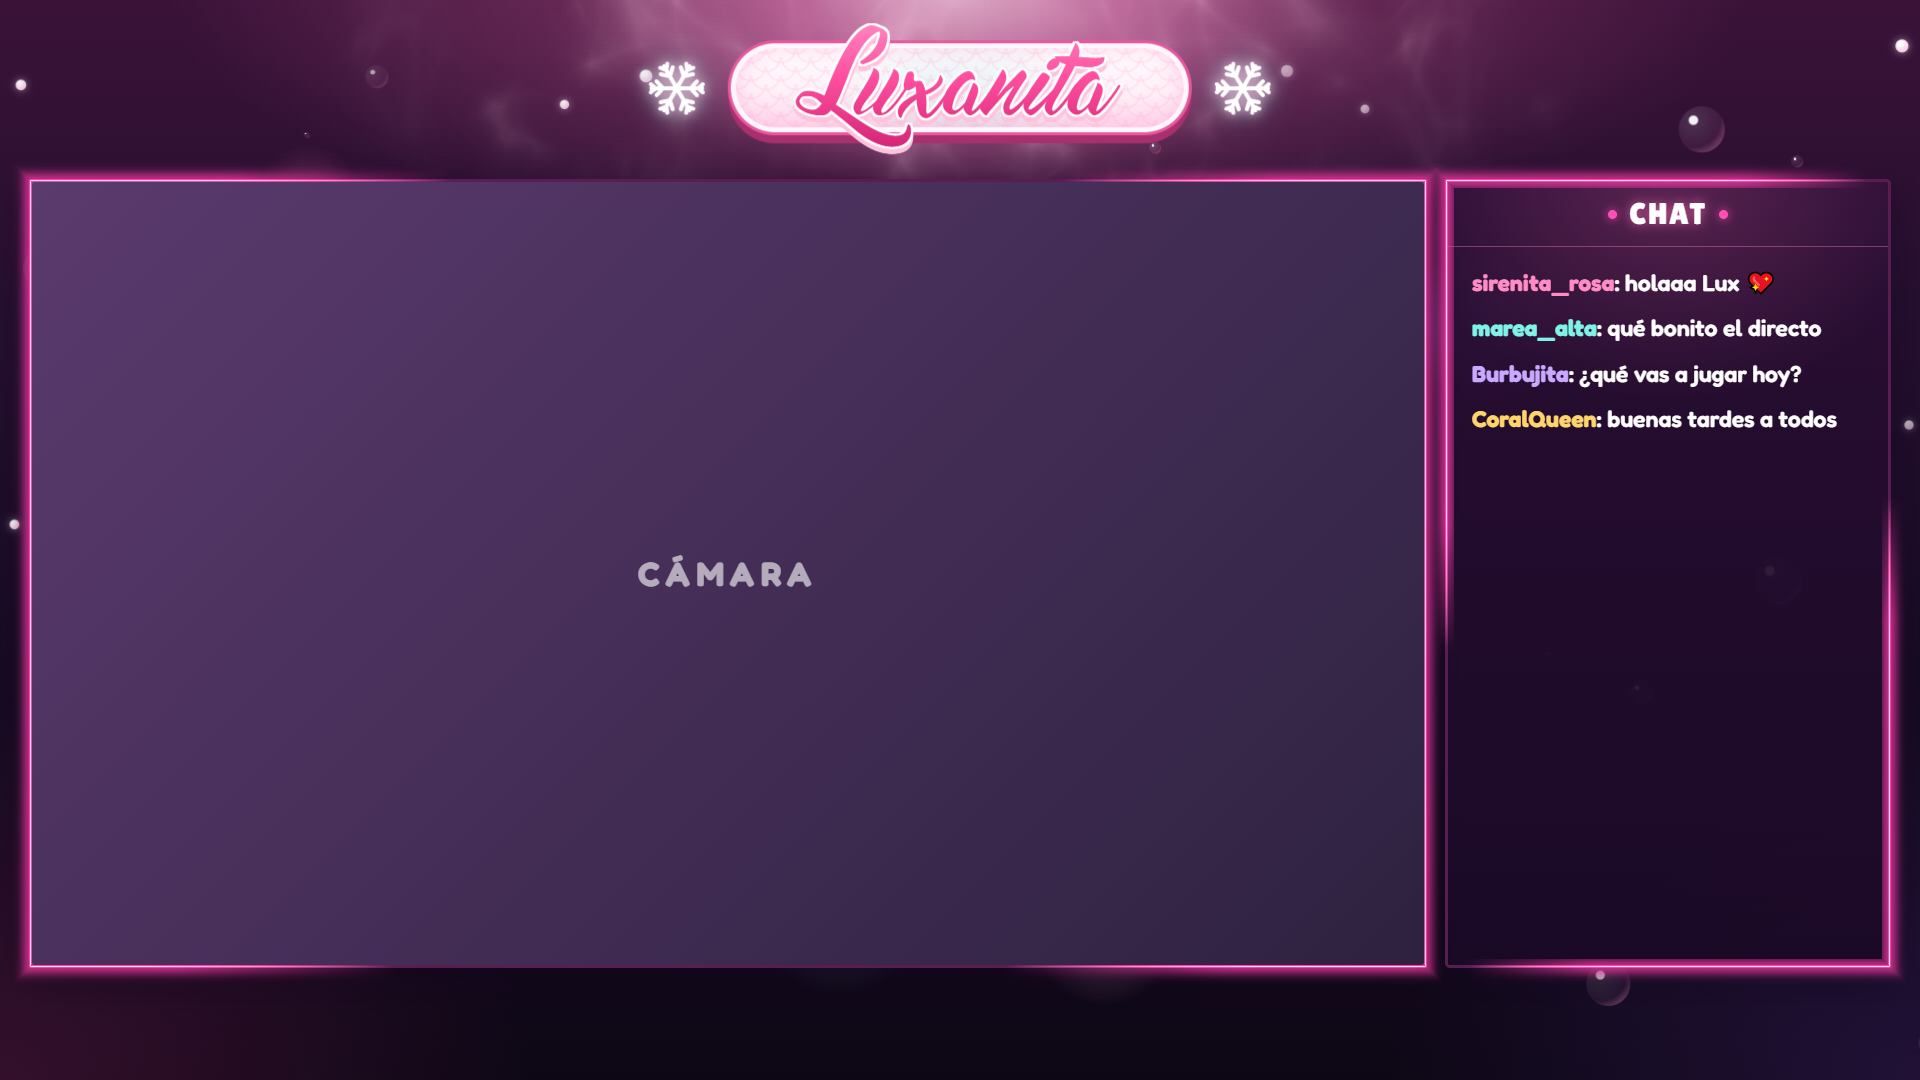
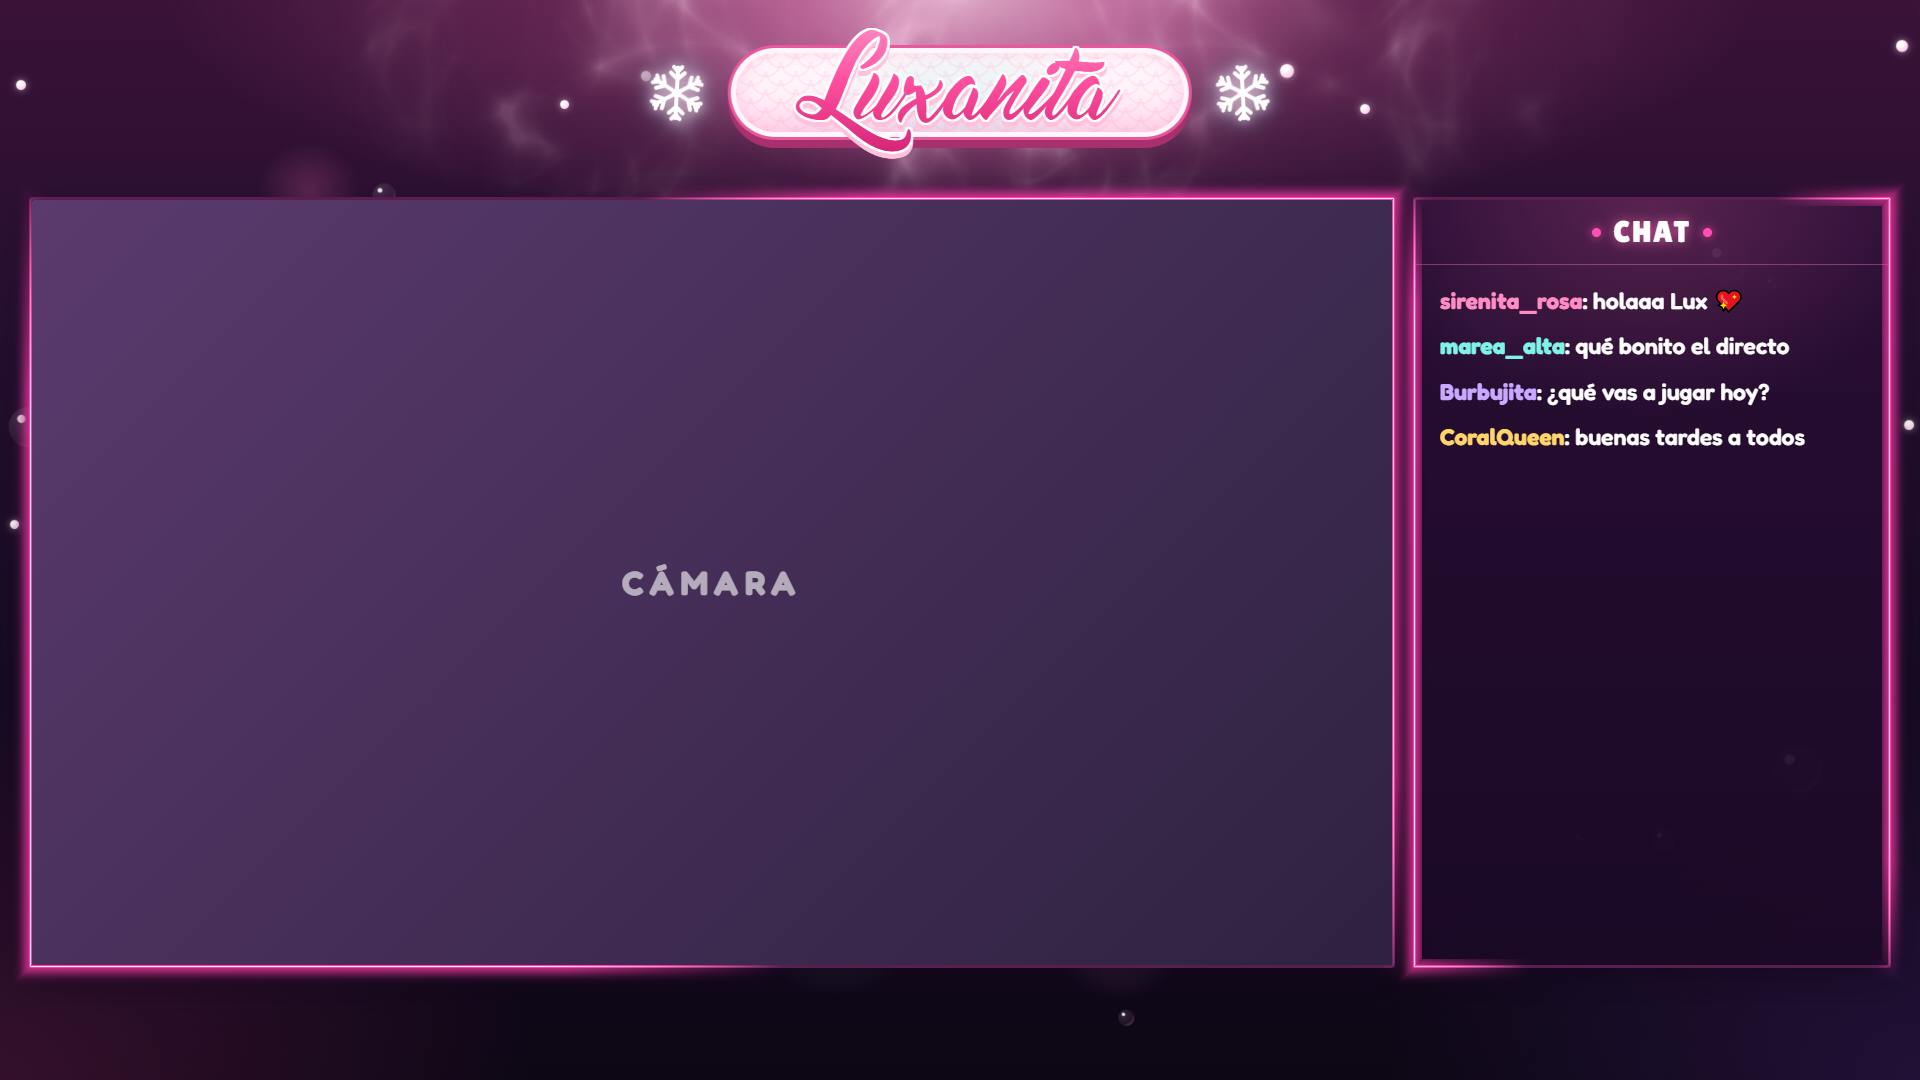
Overlay: cámara horizontal, acuario más grande y aviso de tamaño en OBS
- Escena de juego: juego 1360x765, cámara 472x354 (4:3) y ventana del
  acuario que ocupa todo el ancho de la columna. Charla, partida y el marco
  suelto siguen la misma proporción de cámara.
- Si la fuente Navegador no mide 1920x1080 (o su lienzo) dentro de OBS,
  sale una franja rosa que explica cómo arreglarlo (borroso / bandas).
- Guía: posiciones nuevas y apartados para cuando se ve borroso o con
  bandas negras (overlay y alertas). Capturas y miniaturas rehechas.

Changed region(s): [[0.0, 0.0, 1.0, 0.9167], [0.125, 0.8861, 0.4062, 0.9167], [0.3125, 0.5194, 0.4375, 0.55]]

diff --git a/INSTRUCCIONES.html b/INSTRUCCIONES.html
@@ -510,12 +510,12 @@
           <table>
             <thead><tr><th>Escena</th><th>Fuente</th><th>Posición (X, Y)</th><th>Tamaño</th></tr></thead>
             <tbody>
-              <tr><td rowspan="2"><b>overlay.html</b></td><td>Juego</td><td><code>32, 182</code></td><td><code>1392 x 783</code></td></tr>
-              <tr><td>Cámara</td><td><code>1448, 485</code></td><td><code>440 x 480</code></td></tr>
+              <tr><td rowspan="2"><b>overlay.html</b></td><td>Juego</td><td><code>32, 200</code></td><td><code>1360 x 765</code></td></tr>
+              <tr><td>Cámara</td><td><code>1416, 611</code></td><td><code>472 x 354</code></td></tr>
               <tr><td rowspan="2"><b>partida.html</b></td><td>Juego</td><td><code>0, 0</code></td><td><code>1920 x 1080</code></td></tr>
-              <tr><td>Cámara</td><td><code>24, 34</code></td><td><code>320 x 352</code></td></tr>
-              <tr><td rowspan="2"><b>charla.html</b></td><td>Cámara</td><td><code>32, 182</code></td><td><code>1392 x 783</code></td></tr>
-              <tr><td>Chat</td><td><code>1460, 254</code></td><td><code>416 x 700</code> (ver 2.3)</td></tr>
+              <tr><td>Cámara</td><td><code>24, 34</code></td><td><code>352 x 264</code></td></tr>
+              <tr><td rowspan="2"><b>charla.html</b></td><td>Cámara</td><td><code>32, 200</code></td><td><code>1360 x 765</code></td></tr>
+              <tr><td>Chat</td><td><code>1428, 272</code></td><td><code>448 x 682</code> (ver 2.3)</td></tr>
             </tbody>
           </table>
         </div>
@@ -539,7 +539,7 @@
           </li>
           <li>
             <b>Añádelo a la escena</b>
-            <p>Fuentes &rarr; <b>"+"</b> &rarr; Navegador. URL: el enlace. Ancho <b>416</b> · Alto <b>700</b>.</p>
+            <p>Fuentes &rarr; <b>"+"</b> &rarr; Navegador. URL: el enlace. Ancho <b>448</b> · Alto <b>682</b>.</p>
           </li>
           <li>
             <b>Ponlo encima del overlay</b>
@@ -547,7 +547,7 @@
           </li>
           <li>
             <b>Colócalo</b>
-            <p><kbd>Ctrl</kbd>+<kbd>E</kbd> y Posición <code>1460, 254</code>. Queda dentro del
+            <p><kbd>Ctrl</kbd>+<kbd>E</kbd> y Posición <code>1428, 272</code>. Queda dentro del
                panel rosa de la derecha, debajo de "CHAT".</p>
           </li>
         </ol>
@@ -587,12 +587,12 @@
           <li>
             <b>Añade el marco</b>
             <p>Fuentes &rarr; <b>"+"</b> &rarr; Navegador &rarr; Archivo local =
-               <code>overlay/camara.html</code>. Ancho <b>416</b> · Alto <b>460</b>.</p>
+               <code>overlay/camara.html</code>. Ancho <b>448</b> · Alto <b>372</b>.</p>
           </li>
           <li>
             <b>Pon la cámara debajo</b>
             <p>En la lista de fuentes, debajo del marco. Con <kbd>Ctrl</kbd>+<kbd>E</kbd> dale
-               tamaño <code>320 x 352</code>.</p>
+               tamaño <code>352 x 264</code>.</p>
           </li>
           <li>
             <b>Cuádrala con el marco</b>
@@ -602,7 +602,10 @@
           <li>
             <b>Agrúpalas</b>
             <p>Selecciona las dos (<kbd>Ctrl</kbd> + clic) &rarr; clic derecho &rarr;
-               "Agrupar elementos seleccionados". Ya puedes moverlas y redimensionarlas juntas.</p>
+               "Agrupar elementos seleccionados". Ya puedes moverlas juntas.</p>
+            <p>Para hacerlo más grande, no estires el grupo (el marco se vería borroso): multiplica
+               todos los números por lo mismo. Por ejemplo, x1,5: marco <b>672 x 558</b>, cámara
+               <code>528 x 396</code> en <code>72, 60</code>.</p>
           </li>
         </ol>
       </section>
@@ -652,6 +655,13 @@
              número. Avisa a quien te las preparó.</p>
         </div>
 
+        <div class="caja">
+          <b>Las alertas se ven borrosas, pequeñas o descolocadas</b>
+          <p style="margin:6px 0 0;color:var(--suave)">En OBS, abre las propiedades de la fuente de
+             alertas y pon Ancho <b>1920</b> y Alto <b>1080</b>. Luego clic derecho &rarr; Transformar
+             &rarr; <b>Ajustar a la pantalla</b>. No la estires a mano: se vería borrosa.</p>
+        </div>
+
         <h3>Overlay</h3>
         <div class="caja">
           <b>Una escena sale en blanco o no se ve</b>
@@ -662,6 +672,19 @@
           <b>El juego o la cámara se ven deformados o se salen del hueco</b>
           <p style="margin:6px 0 0;color:var(--suave)">Repite los pasos del 2.2 con la posición y
              el tamaño de la tabla.</p>
+        </div>
+        <div class="caja">
+          <b>Se ve borroso o salen bandas negras arriba y abajo</b>
+          <ul style="margin:6px 0 0;color:var(--suave)">
+            <li>En OBS: Ajustes &rarr; Vídeo. <b>Resolución base</b> 1920x1080 y <b>Resolución de salida</b>
+                1920x1080 (o 1280x720 con filtro Lanczos si el ordenador va justo). Si la base tiene la forma
+                de tu monitor (por ejemplo 1920x1200 o una ultrapanorámica), salen bandas.</li>
+            <li>En la fuente del overlay: Propiedades &rarr; Ancho <b>1920</b> y Alto <b>1080</b>. Luego clic
+                derecho &rarr; Transformar &rarr; <b>Ajustar a la pantalla</b>. Si está mal, el propio overlay
+                lo avisa con una franja rosa arriba.</li>
+            <li>En la captura del juego y en la cámara: clic derecho &rarr; Filtro de escalado &rarr; <b>Lanczos</b>.
+                Así el texto del juego se ve más nítido al encogerlo para que quepa en el marco.</li>
+          </ul>
         </div>
         <div class="caja">
           <b>Los huecos salen a cuadritos o de color oscuro dentro de OBS</b>

diff --git a/overlay/comun.js b/overlay/comun.js
@@ -16,8 +16,9 @@
   var BORDER = 3;      // grosor del marco (la línea de neón)
 
   // ===== Distribución común (la misma en todas las escenas, para que al cambiar de escena todo encaje) =====
-  window.GRANDE  = { x: 32,   y: 182, w: 1392, h: 783 };   // marco grande (16:9)
-  window.PEQUENO = { x: 1448, y: 485, w: 440,  h: 480 };   // marco pequeño de la derecha
+  // Rejilla: 32 px de margen a los lados, 24 px entre columnas; el marco grande y el pequeño acaban a la misma altura.
+  window.GRANDE  = { x: 32,   y: 200, w: 1360, h: 765 };   // marco grande (16:9)
+  window.PEQUENO = { x: 1416, y: 611, w: 472,  h: 354 };   // marco pequeño de la derecha (4:3, más ancho que alto)
 
   var SKELETON =
     '<div id="stage">' +
@@ -111,6 +112,26 @@
     }
     window.addEventListener('resize', fit);
     fit();
+
+    // Aviso dentro de OBS si la fuente no mide lo que debe: si es más pequeña, OBS la estira y se ve
+    // borrosa; si no es 16:9, quedan bandas vacías arriba y abajo (o a los lados).
+    if (enOBS) {
+      var aviso = document.createElement('div');
+      aviso.style.cssText = 'position:fixed;left:0;right:0;top:0;z-index:99;padding:10px 14px;background:#e2317f;color:#fff;' +
+        'font:600 16px/1.35 Fredoka,Segoe UI,sans-serif;text-align:center;display:none';
+      document.body.appendChild(aviso);
+      var revisar = function () {
+        // vale cualquier tamaño igual o mayor con la misma forma (p. ej. 2560x1440): se sigue viendo nítido
+        var w = window.innerWidth, h = window.innerHeight;
+        var mal = w < LW - 2 || h < LH - 2 || Math.abs(w / h - LW / LH) > .01;
+        aviso.style.display = mal ? 'block' : 'none';
+        if (mal) aviso.textContent = 'Esta fuente mide ' + w + ' × ' + h + ' y tiene que medir ' + LW + ' × ' + LH +
+          '. Abre sus propiedades y pon Ancho ' + LW + ' y Alto ' + LH + '.' +
+          (LW === 1920 ? ' Luego clic derecho → Transformar → Ajustar a la pantalla.' : '');
+      };
+      window.addEventListener('resize', revisar);
+      revisar();
+    }
 
     // ----- recorte: el fondo y la decoración nunca pintan dentro de los huecos -----
     function rr(b) {
@@ -352,7 +373,7 @@
     // el aro (18 px) empieza a la altura del cartel del título y deja HUECO px (más su sombra) hasta el marco
     var ARO = 18, SOMBRA = 8, HUECO = 14, TITULO_ARRIBA = 43;
     var aroArriba = TITULO_ARRIBA, aroAbajo = P.y - BORDER - HUECO - SOMBRA;
-    var D = Math.min(400, aroAbajo - aroArriba - ARO * 2, P.w - 40);
+    var D = Math.min(aroAbajo - aroArriba - ARO * 2, P.w - 40);   // lo más grande que quepa en la columna
     ph.style.width = ph.style.height = D + 'px';
     ph.style.left = (P.x + P.w / 2 - D / 2) + 'px';
     ph.style.top = (aroArriba + ARO + (aroAbajo - aroArriba - ARO * 2 - D) / 2) + 'px';

diff --git a/overlay/camara.html b/overlay/camara.html
@@ -7,19 +7,21 @@
 <link rel="stylesheet" href="comun.css">
 <!--
   MARCO DE CÁMARA SUELTO: solo el marco con sus destellos y el nombre, con fondo transparente.
-  - En OBS: fuente "Navegador", archivo local = este archivo, ancho 416 y alto 460.
-  - Pon la cámara debajo, en la posición 48, 40 respecto a esta fuente y con tamaño 320 x 352,
-    agrúpalas y muévelas o escálalas juntas a donde quieras.
+  - En OBS: fuente "Navegador", archivo local = este archivo, ancho 448 y alto 372.
+  - Pon la cámara debajo, en la posición 48, 40 respecto a esta fuente y con tamaño 352 x 264,
+    agrúpalas y muévelas juntas a donde quieras.
+  - Para hacerlo más grande sin que se vea borroso, no lo estires en OBS: multiplica ancho y alto
+    de la fuente por lo mismo (p. ej. 672 x 558 = x1,5) y la cámara igual (528 x 396 en 72, 60).
 -->
 </head>
 <body>
 <script src="comun.js"></script>
 <script>
   montarEscena({
-    lienzo: { w: 416, h: 460 },                 // el marco con margen para su brillo y su sombra
+    lienzo: { w: 448, h: 372 },                 // el marco con margen para su brillo y su sombra
     fondo: false,
     huecos: [
-      { tipo: 'cam', x: 48, y: 40, w: 320, h: 352, nombre: 'Luxanita' }
+      { tipo: 'cam', x: 48, y: 40, w: 352, h: 264, nombre: 'Luxanita' }
     ],
     titulo: false
   });

diff --git a/overlay/partida.html b/overlay/partida.html
@@ -18,8 +18,8 @@
   montarEscena({
     fondo: false,
     huecos: [
-      // cámara pequeña, un poco más alta que ancha, con el nombre montado sobre el borde de arriba
-      { tipo: 'cam', x: 24, y: 34, w: 320, h: 352, nombre: 'Luxanita' }
+      // cámara pequeña, 4:3 (un poco más ancha que alta, como en la escena de juego), con el nombre montado sobre el borde de arriba
+      { tipo: 'cam', x: 24, y: 34, w: 352, h: 264, nombre: 'Luxanita' }
     ],
     titulo: false
   });

diff --git a/overlay/charla.html b/overlay/charla.html
@@ -20,7 +20,7 @@
       Object.assign({ tipo: 'cam' }, GRANDE)                  // cámara en grande (transparente)
     ],
     paneles: [
-      { x: 1448, y: 182, w: 440, h: 783, chat: true }         // panel del chat: el chat de Streamlabs va encima
+      { x: 1416, y: 200, w: 472, h: 765, chat: true }         // panel del chat: el chat de Streamlabs va encima
     ]
   });
 </script>
